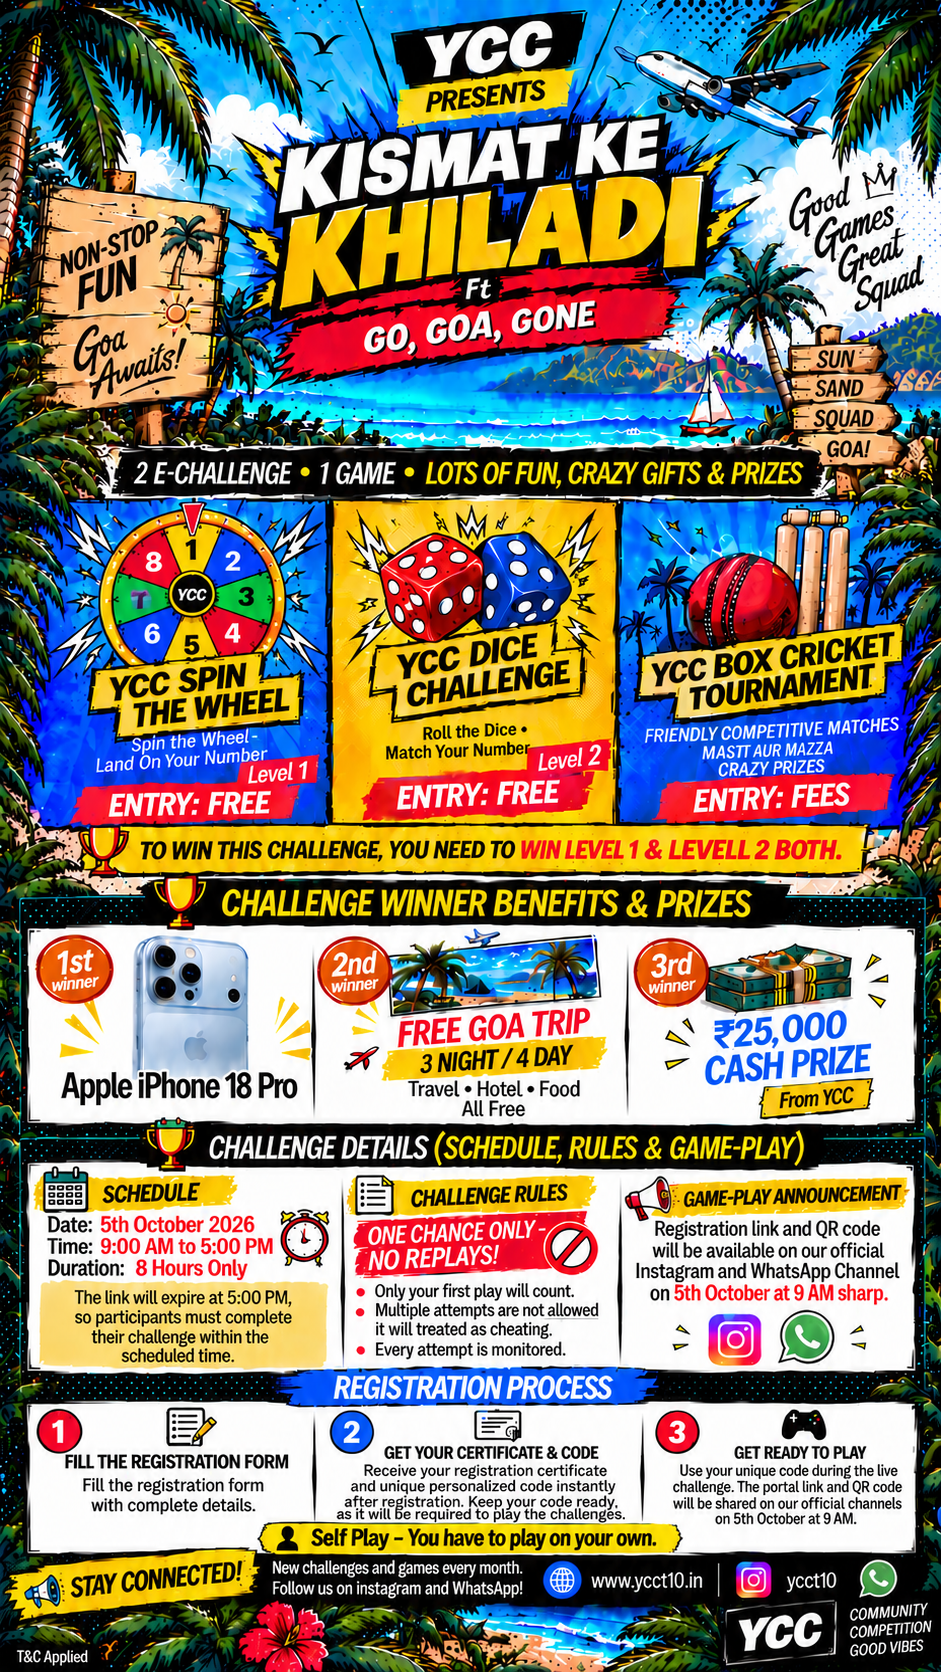
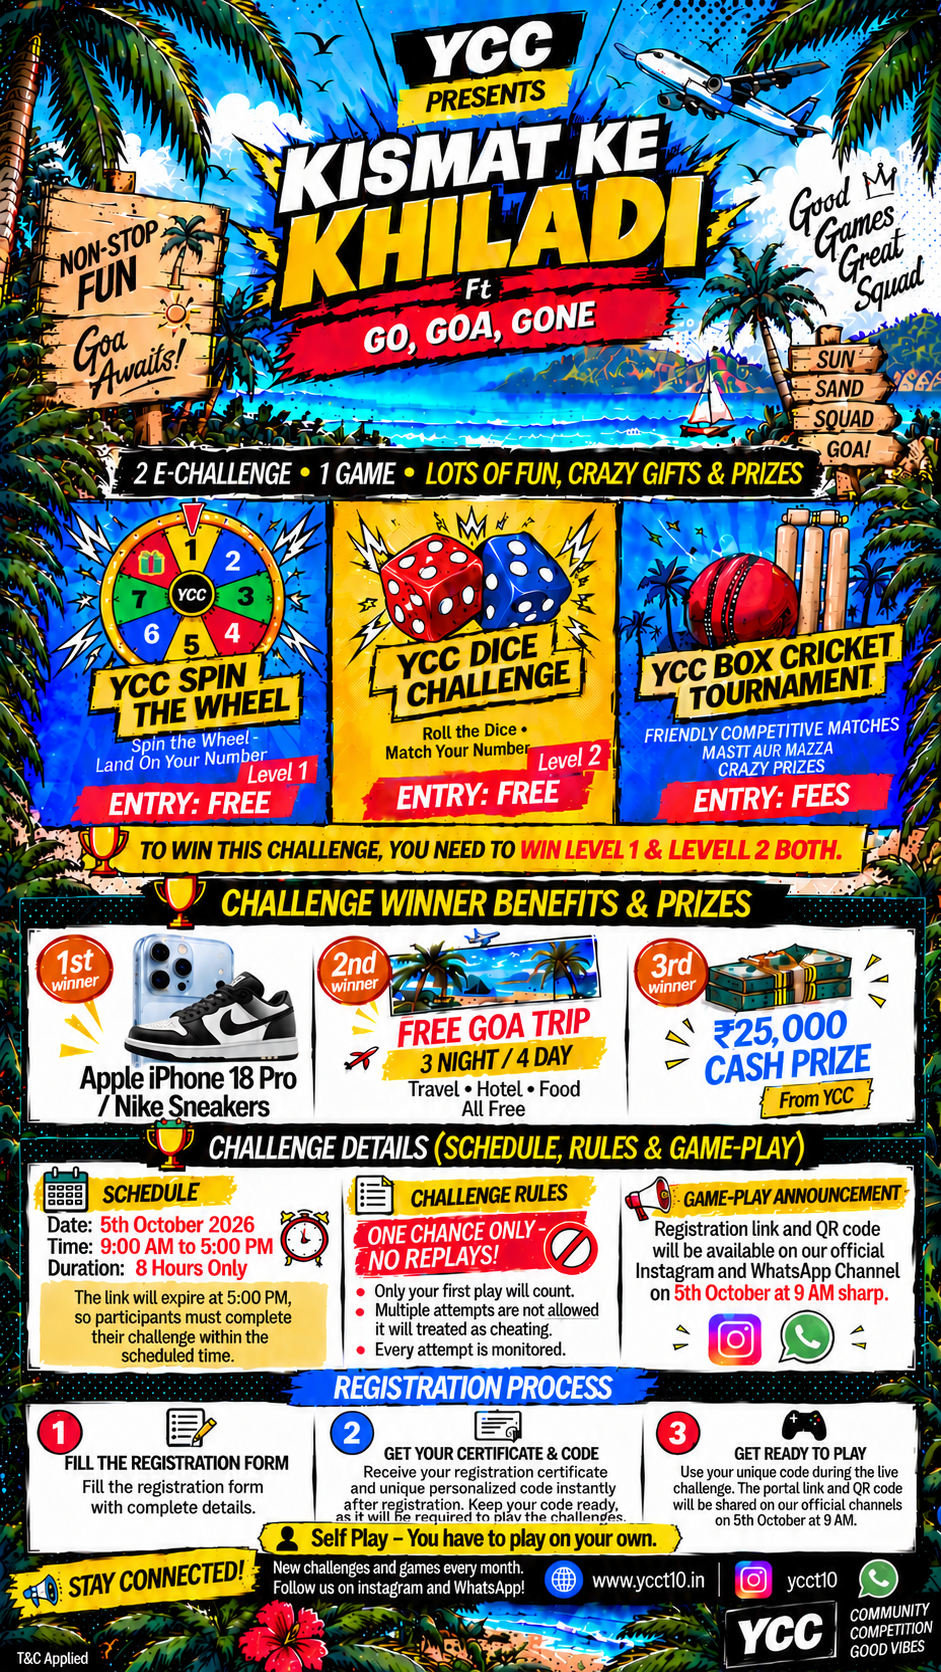
Update Go Goa Gone poster; college campus partner: second WhatsApp gate + fix button hydration mismatch
Claude-Session: https://claude.ai/code/session_01GyWhy75g1ezGdTAMn5TX1a

diff --git a/src/components/registration/college-campus-partner-form.tsx b/src/components/registration/college-campus-partner-form.tsx
@@ -6,7 +6,7 @@ import { useForm, Controller, useWatch } from "react-hook-form";
 import { zodResolver } from "@hookform/resolvers/zod";
 import { toast } from "sonner";
 import { MessageCircle, CheckCircle2, FileX } from "lucide-react";
-import { WHATSAPP_CHANNEL_URL_OFFICIAL } from "@/lib/partner-whatsapp";
+import { WHATSAPP_CHANNEL_URL, WHATSAPP_CHANNEL_URL_OFFICIAL } from "@/lib/partner-whatsapp";
 
 const INSTAGRAM_URL = "https://instagram.com/ycct10";
 
@@ -99,12 +99,14 @@ export function CollegeCampusPartnerForm({ colleges }: { colleges: CollegeOption
       instagramHandle: "",
       agreedToTerms: false,
       whatsappJoined: false,
+      partnerWhatsappJoined: false,
       instagramJoined: false,
     },
   });
 
   const agreedToTerms = useWatch({ control, name: "agreedToTerms" });
   const whatsappJoined = useWatch({ control, name: "whatsappJoined" });
+  const partnerWhatsappJoined = useWatch({ control, name: "partnerWhatsappJoined" });
   const instagramJoined = useWatch({ control, name: "instagramJoined" });
 
   // Fetches the certificate first instead of navigating the browser
@@ -362,12 +364,12 @@ export function CollegeCampusPartnerForm({ colleges }: { colleges: CollegeOption
         <CardHeader>
           <CardTitle>Join our communities</CardTitle>
           <CardDescription>
-            Required before you can submit — follow the YCC Partners Group
-            channel and our Instagram for updates, coordination, and
+            Required before you can submit — join both YCC WhatsApp channels
+            and follow our Instagram for updates, coordination, and
             announcements.
           </CardDescription>
         </CardHeader>
-        <CardContent className="grid grid-cols-1 min-[400px]:grid-cols-2 gap-3">
+        <CardContent className="grid grid-cols-1 sm:grid-cols-3 gap-3">
           <div>
             <Button
               type="button"
@@ -382,13 +384,37 @@ export function CollegeCampusPartnerForm({ colleges }: { colleges: CollegeOption
                   ) : (
                     <MessageCircle className="size-4 shrink-0" />
                   )}
-                  {whatsappJoined ? "Joined — open channel again" : "Join WhatsApp Channel"}
+                  {whatsappJoined ? "Joined — open channel again" : "Join YCC Channel"}
                 </a>
               }
             />
             {errors.whatsappJoined ? (
               <p className="text-destructive text-xs mt-1.5">
                 {errors.whatsappJoined.message}
+              </p>
+            ) : null}
+          </div>
+          <div>
+            <Button
+              type="button"
+              variant={partnerWhatsappJoined ? "outline" : "default"}
+              className="h-auto w-full min-h-8 py-2 text-center leading-snug whitespace-normal"
+              nativeButton={false}
+              onClick={() => setValue("partnerWhatsappJoined", true, { shouldValidate: true })}
+              render={
+                <a href={WHATSAPP_CHANNEL_URL} target="_blank" rel="noopener noreferrer">
+                  {partnerWhatsappJoined ? (
+                    <CheckCircle2 className="size-4 shrink-0" />
+                  ) : (
+                    <MessageCircle className="size-4 shrink-0" />
+                  )}
+                  {partnerWhatsappJoined ? "Joined — open channel again" : "Join Partners Channel"}
+                </a>
+              }
+            />
+            {errors.partnerWhatsappJoined ? (
+              <p className="text-destructive text-xs mt-1.5">
+                {errors.partnerWhatsappJoined.message}
               </p>
             ) : null}
           </div>
@@ -459,7 +485,7 @@ export function CollegeCampusPartnerForm({ colleges }: { colleges: CollegeOption
           <Button
             type="submit"
             className="w-full sm:w-auto px-8 h-12 rounded-xl text-base font-semibold shadow-md hover:shadow-lg transition-all"
-            disabled={isSubmitting || !agreedToTerms || !whatsappJoined || !instagramJoined}
+            disabled={isSubmitting || !agreedToTerms || !whatsappJoined || !partnerWhatsappJoined || !instagramJoined}
           >
             {isSubmitting ? "Submitting..." : "Submit Application"}
           </Button>

diff --git a/src/app/(public)/college-campus-partner/page.tsx b/src/app/(public)/college-campus-partner/page.tsx
@@ -32,10 +32,10 @@ export default async function CollegeCampusPartnerPage() {
         <div className="flex flex-wrap justify-center gap-3 mb-10">
           <Button
             variant="outline"
-            className="rounded-full px-8 h-12 border-slate-200 shadow-sm bg-white hover:bg-slate-50 text-slate-700 font-semibold transition-all hover:scale-[1.02]"
+            className="gap-2 rounded-full px-8 h-12 border-slate-200 shadow-sm bg-white hover:bg-slate-50 text-slate-700 font-semibold transition-all hover:scale-[1.02]"
             nativeButton={false}
             render={
-              <Link href="/college-campus-partner/certificate" className="flex items-center gap-2">
+              <Link href="/college-campus-partner/certificate">
                 <Download className="size-4 text-blue-600" />
                 Download your certificate
               </Link>

diff --git a/src/lib/validations/college-campus-partner.ts b/src/lib/validations/college-campus-partner.ts
@@ -28,7 +28,10 @@ const collegeCampusPartnerFieldsSchema = z.object({
 // Used when submitting a new application — also requires the join gate.
 export const collegeCampusPartnerApplicationSchema = collegeCampusPartnerFieldsSchema.extend({
   whatsappJoined: z.boolean().refine((v) => v === true, {
-    message: "Join the WhatsApp channel to continue",
+    message: "Join the YCC WhatsApp channel to continue",
+  }),
+  partnerWhatsappJoined: z.boolean().refine((v) => v === true, {
+    message: "Join the YCC Partners WhatsApp channel to continue",
   }),
   instagramJoined: z.boolean().refine((v) => v === true, {
     message: "Join our Instagram to continue",
